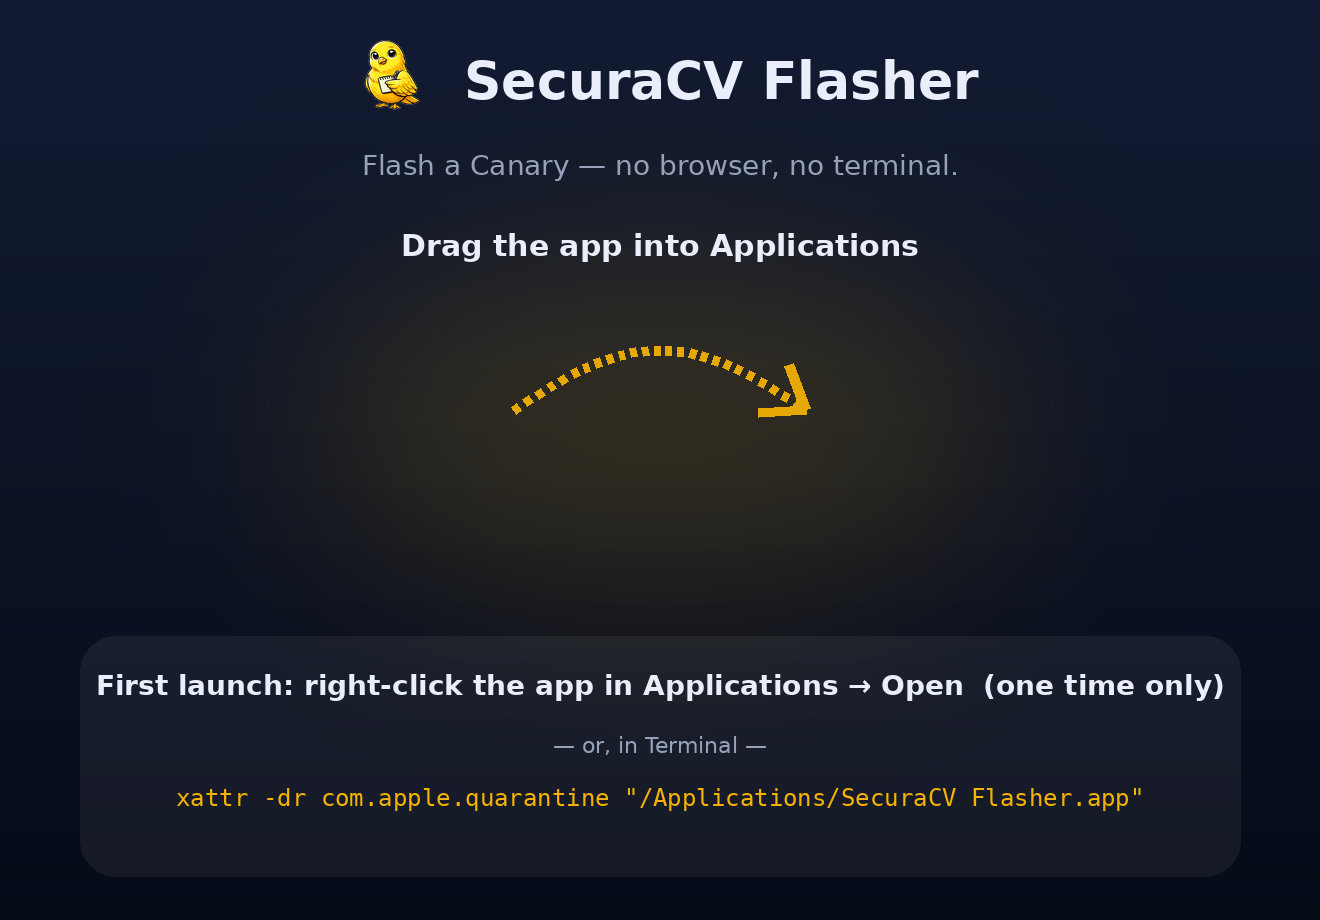
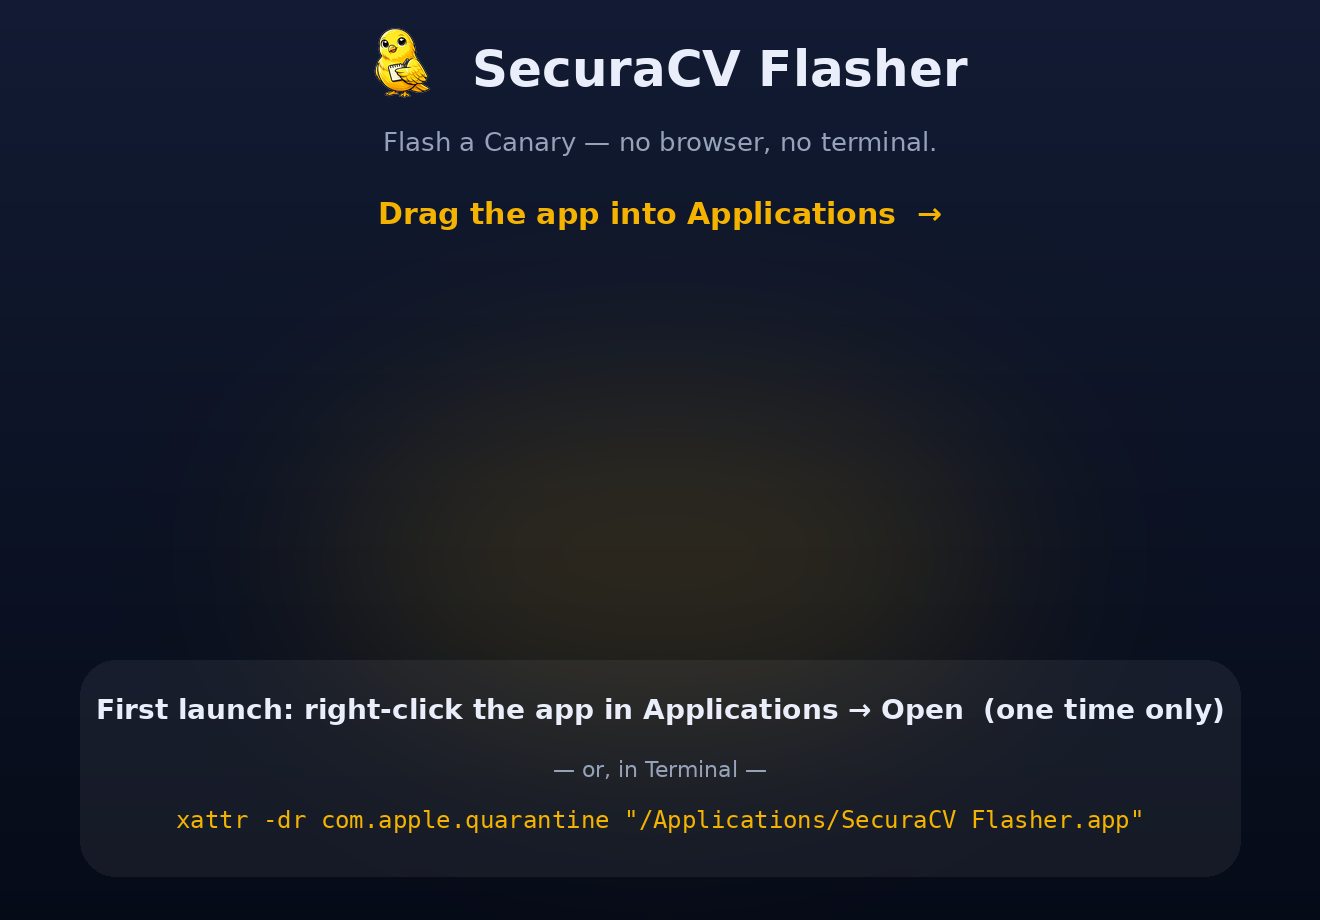
Fix DMG window layout: collision-proof text placement (#1053)
The mounted installer showed the Applications alias landing on top of the
'Drag the app into Applications' header and the arrow orphaned in empty
space — Finder places the icons higher than the artwork assumed, and the
exact Y can't be pinned without a real Mac. Move all text into the top and
bottom safe zones, leave a wide clear band in the middle for the icons and
their Finder labels, and drop the standalone arrow. Nudge the icon centers
into that band.

Claude-Session: https://claude.ai/code/session_01NapWgAAv5NTeD3tpvsDUHt

diff --git a/desktop/src-tauri/dmg/generate_background.py b/desktop/src-tauri/dmg/generate_background.py
@@ -1,20 +1,19 @@
 #!/usr/bin/env python3
 """Build the branded .dmg window background for the SecuraCV Flasher installer.
 
-The DMG opens to a designed window: the app icon on the left, an arrow to the
-Applications folder on the right, and the one-time first-open note baked in —
-so installing feels intentional, not like a raw disk image.
+Layout is deliberately COLLISION-PROOF: Finder places the two icons (the app
+and the Applications alias) roughly in the vertical middle, and their exact Y
+can't be pixel-tuned without a real Mac. So all artwork lives in the top and
+bottom safe zones, leaving a wide clear band in the middle for the icons and
+their Finder labels — no text or arrow can land under an icon.
 
-Geometry is locked to tauri.conf.json's dmg block (points; this canvas is 2x
-for retina crispness):
-    windowSize                = 660 x 460
-    appPosition               = (175, 205)   ← app icon lands here
-    applicationFolderPosition = (485, 205)   ← Applications folder lands here
+    windowSize                = 660 x 460   (this canvas is 2x for retina)
+    appPosition               = (175, 225)  ← app icon lands here
+    applicationFolderPosition = (485, 225)  ← Applications alias lands here
 
-Regenerate with:  python3 generate_background.py   (needs Pillow + brand asset)
+Regenerate:  python3 generate_background.py   (needs Pillow + the brand asset)
 The produced background.png is committed, so CI needs no Pillow.
 """
-import math
 import os
 from PIL import Image, ImageDraw, ImageFont, ImageFilter
 
@@ -22,17 +21,20 @@ HERE = os.path.dirname(os.path.abspath(__file__))
 MASCOT = os.path.normpath(os.path.join(HERE, "../../../brands/logo_main.png"))
 FONT_DIR = "/usr/share/fonts/truetype/dejavu"
 
-S = 2                               # retina scale (points -> pixels)
+S = 2
 WIN_W, WIN_H = 660, 460
 W, H = WIN_W * S, WIN_H * S
-APP = (175 * S, 205 * S)            # where the app icon lands
-APPS = (485 * S, 205 * S)          # where the Applications folder lands
 
 INK_TOP = (18, 27, 51)
 INK_BOTTOM = (6, 11, 24)
 CANARY = (245, 179, 1)
 TEXT = (233, 238, 250)
 MUTED = (150, 162, 186)
+
+# Vertical safe zones (points). Nothing is drawn in the middle band, where the
+# icons + their labels live.
+TOP_LIMIT = 150      # artwork stays above this
+BOTTOM_LIMIT = 330   # artwork stays below this
 
 
 def font(name, pt):
@@ -49,7 +51,6 @@ def vgrad(size, top, bottom):
 
 
 def center(draw, cx, cy, text, fnt, fill):
-    """Draw text horizontally centred on cx, vertically centred on cy."""
     l, t, r, b = draw.textbbox((0, 0), text, font=fnt)
     draw.text((cx - (r - l) / 2 - l, cy - (b - t) / 2 - t), text, font=fnt, fill=fill)
 
@@ -57,13 +58,13 @@ def center(draw, cx, cy, text, fnt, fill):
 def main():
     img = vgrad((W, H), INK_TOP, INK_BOTTOM).convert("RGBA")
 
-    # Warm canary glow behind the drag path.
+    # Warm canary glow low-centre, well clear of the text.
     glow = Image.new("RGBA", (W, H), (0, 0, 0, 0))
-    ImageDraw.Draw(glow).ellipse([W * 0.16, H * 0.20, W * 0.84, H * 0.72], fill=CANARY + (42,))
+    ImageDraw.Draw(glow).ellipse([W * 0.18, H * 0.34, W * 0.82, H * 0.86], fill=CANARY + (38,))
     img = Image.alpha_composite(img, glow.filter(ImageFilter.GaussianBlur(120)))
     d = ImageDraw.Draw(img)
 
-    # ── title row: small mascot + wordmark, centred ────────────────────────
+    # ── TOP safe zone: mascot + wordmark, subtitle, drag instruction ───────
     mascot = Image.open(MASCOT).convert("RGBA")
     bb = mascot.getbbox()
     if bb:
@@ -72,55 +73,34 @@ def main():
     mw = round(mascot.width * (mh / mascot.height))
     mascot = mascot.resize((mw, mh), Image.LANCZOS)
 
-    title_f = font("DejaVuSans-Bold.ttf", 26)
+    title_f = font("DejaVuSans-Bold.ttf", 25)
     title = "SecuraCV Flasher"
     tl, tt, tr, tb = d.textbbox((0, 0), title, font=title_f)
-    gap = 16 * S
-    group_w = mw + gap + (tr - tl)
-    gx = (W - group_w) // 2
-    cy = 40 * S
+    gap = 15 * S
+    gx = (W - (mw + gap + (tr - tl))) // 2
+    cy = 34 * S
     img.paste(mascot, (gx, cy - mh // 2), mascot)
     d.text((gx + mw + gap - tl, cy - (tb - tt) / 2 - tt), title, font=title_f, fill=TEXT)
 
-    center(d, W // 2, 84 * S, "Flash a Canary — no browser, no terminal.",
-           font("DejaVuSans.ttf", 14), MUTED)
+    center(d, W // 2, 72 * S, "Flash a Canary — no browser, no terminal.",
+           font("DejaVuSans.ttf", 13), MUTED)
+    center(d, W // 2, 108 * S, "Drag the app into Applications  →",
+           font("DejaVuSans-Bold.ttf", 15), CANARY)
 
-    # ── header (the icons + their Finder filename labels are drawn by the
-    #    DMG itself at APP / APPS, so we don't re-label them here) ───────────
-    center(d, W // 2, 124 * S, "Drag the app into Applications", font("DejaVuSans-Bold.ttf", 15), TEXT)
+    # (icons + their Finder labels render in the clear band here — no artwork)
 
-    # ── horizontal drag arrow between them ─────────────────────────────────
-    y = APP[1]
-    x0, x1 = APP[0] + 82 * S, APPS[0] - 82 * S
-    arc = Image.new("RGBA", (W, H), (0, 0, 0, 0))
-    ad = ImageDraw.Draw(arc)
-    pts = []
-    for i in range(101):
-        t = i / 100
-        pts.append((x0 + (x1 - x0) * t, y - math.sin(t * math.pi) * 30 * S))
-    for i in range(0, len(pts) - 1, 4):
-        ad.line([pts[i], pts[min(i + 2, len(pts) - 1)]], fill=CANARY + (235,), width=5 * S)
-    hx, hy = pts[-1]
-    ang = math.atan2(hy - pts[-8][1], hx - pts[-8][0])
-    for a in (ang + 2.5, ang - 2.5):
-        ad.line([(hx, hy), (hx + math.cos(a) * 24 * S, hy + math.sin(a) * 24 * S)],
-                fill=CANARY + (235,), width=5 * S)
-    img = Image.alpha_composite(img, arc)
-    d = ImageDraw.Draw(img)
-
-    # ── footer: the one-time first-open note ───────────────────────────────
-    px0, px1 = 40 * S, W - 40 * S
-    py0, py1 = 318 * S, 438 * S
+    # ── BOTTOM safe zone: the one-time first-open note ─────────────────────
+    py0, py1 = BOTTOM_LIMIT * S, (WIN_H - 22) * S
     panel = Image.new("RGBA", (W, H), (0, 0, 0, 0))
-    ImageDraw.Draw(panel).rounded_rectangle([px0, py0, px1, py1], radius=18 * S,
-                                            fill=(255, 255, 255, 15))
+    ImageDraw.Draw(panel).rounded_rectangle([40 * S, py0, W - 40 * S, py1],
+                                            radius=18 * S, fill=(255, 255, 255, 15))
     img = Image.alpha_composite(img, panel)
     d = ImageDraw.Draw(img)
     center(d, W // 2, py0 + 26 * S,
            "First launch: right-click the app in Applications → Open  (one time only)",
            font("DejaVuSans-Bold.ttf", 14), TEXT)
     center(d, W // 2, py0 + 55 * S, "— or, in Terminal —", font("DejaVuSans.ttf", 11), MUTED)
-    center(d, W // 2, py0 + 82 * S,
+    center(d, W // 2, py0 + 81 * S,
            'xattr -dr com.apple.quarantine "/Applications/SecuraCV Flasher.app"',
            font("DejaVuSansMono.ttf", 12), CANARY)
 
